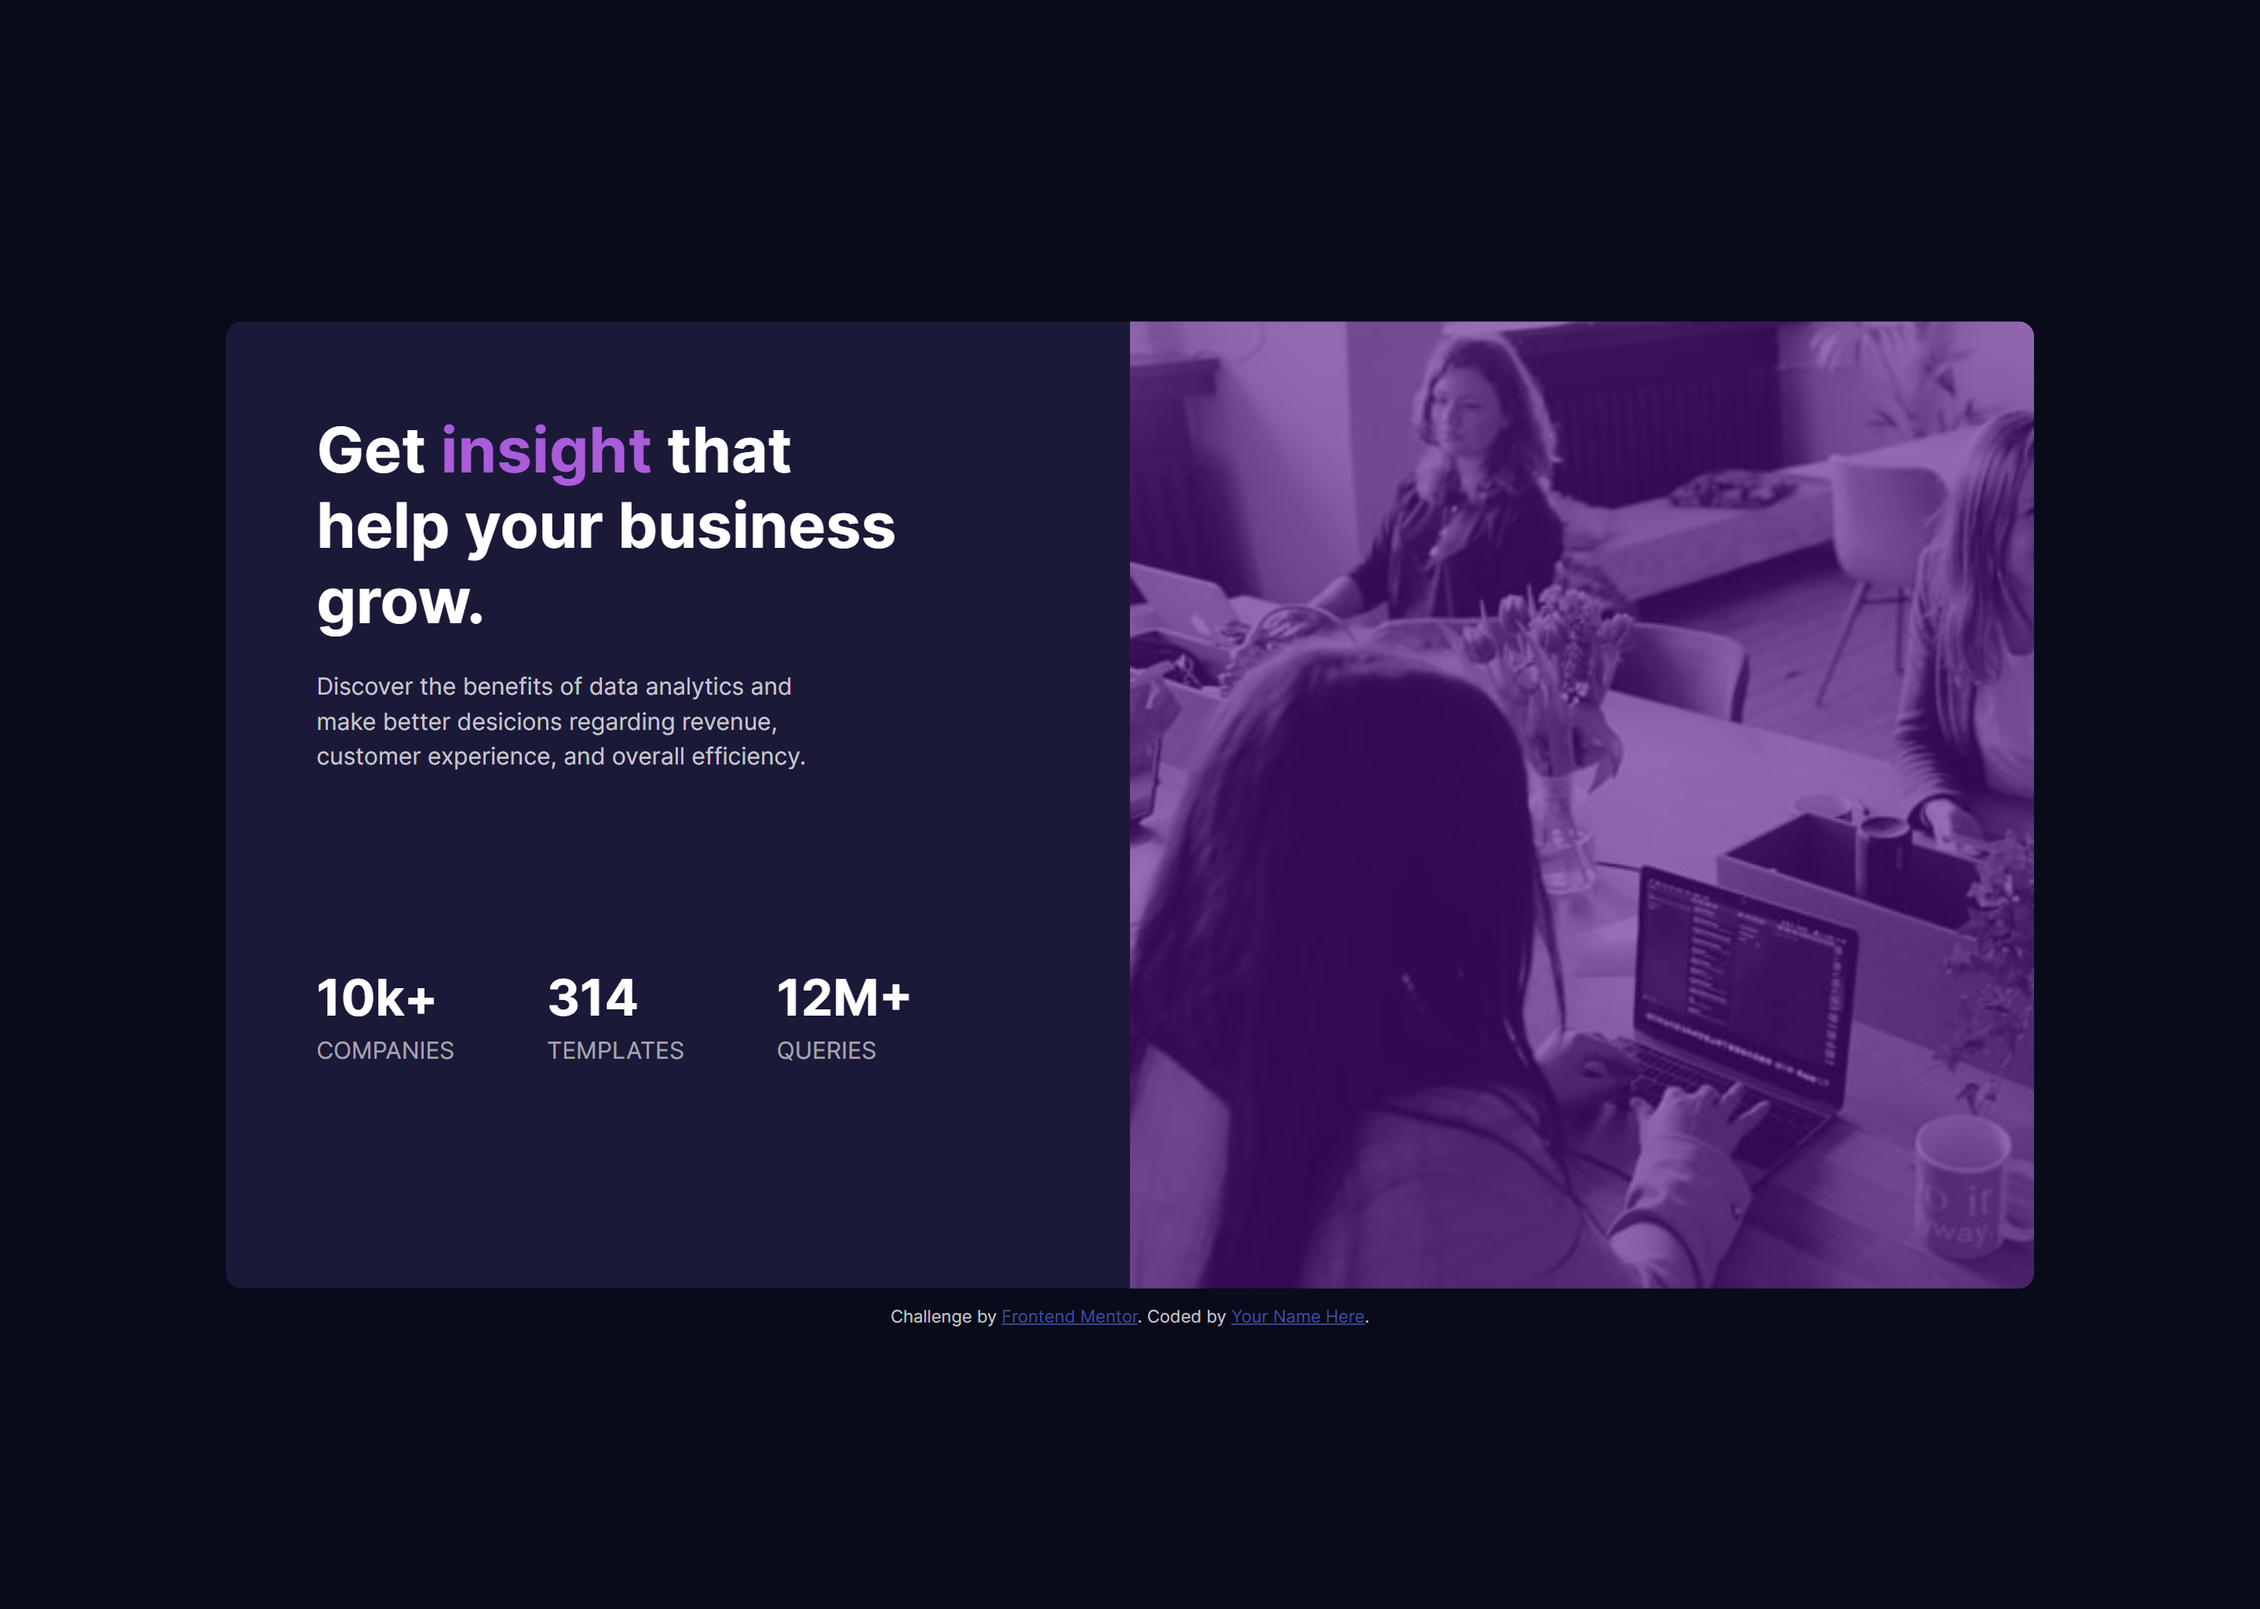
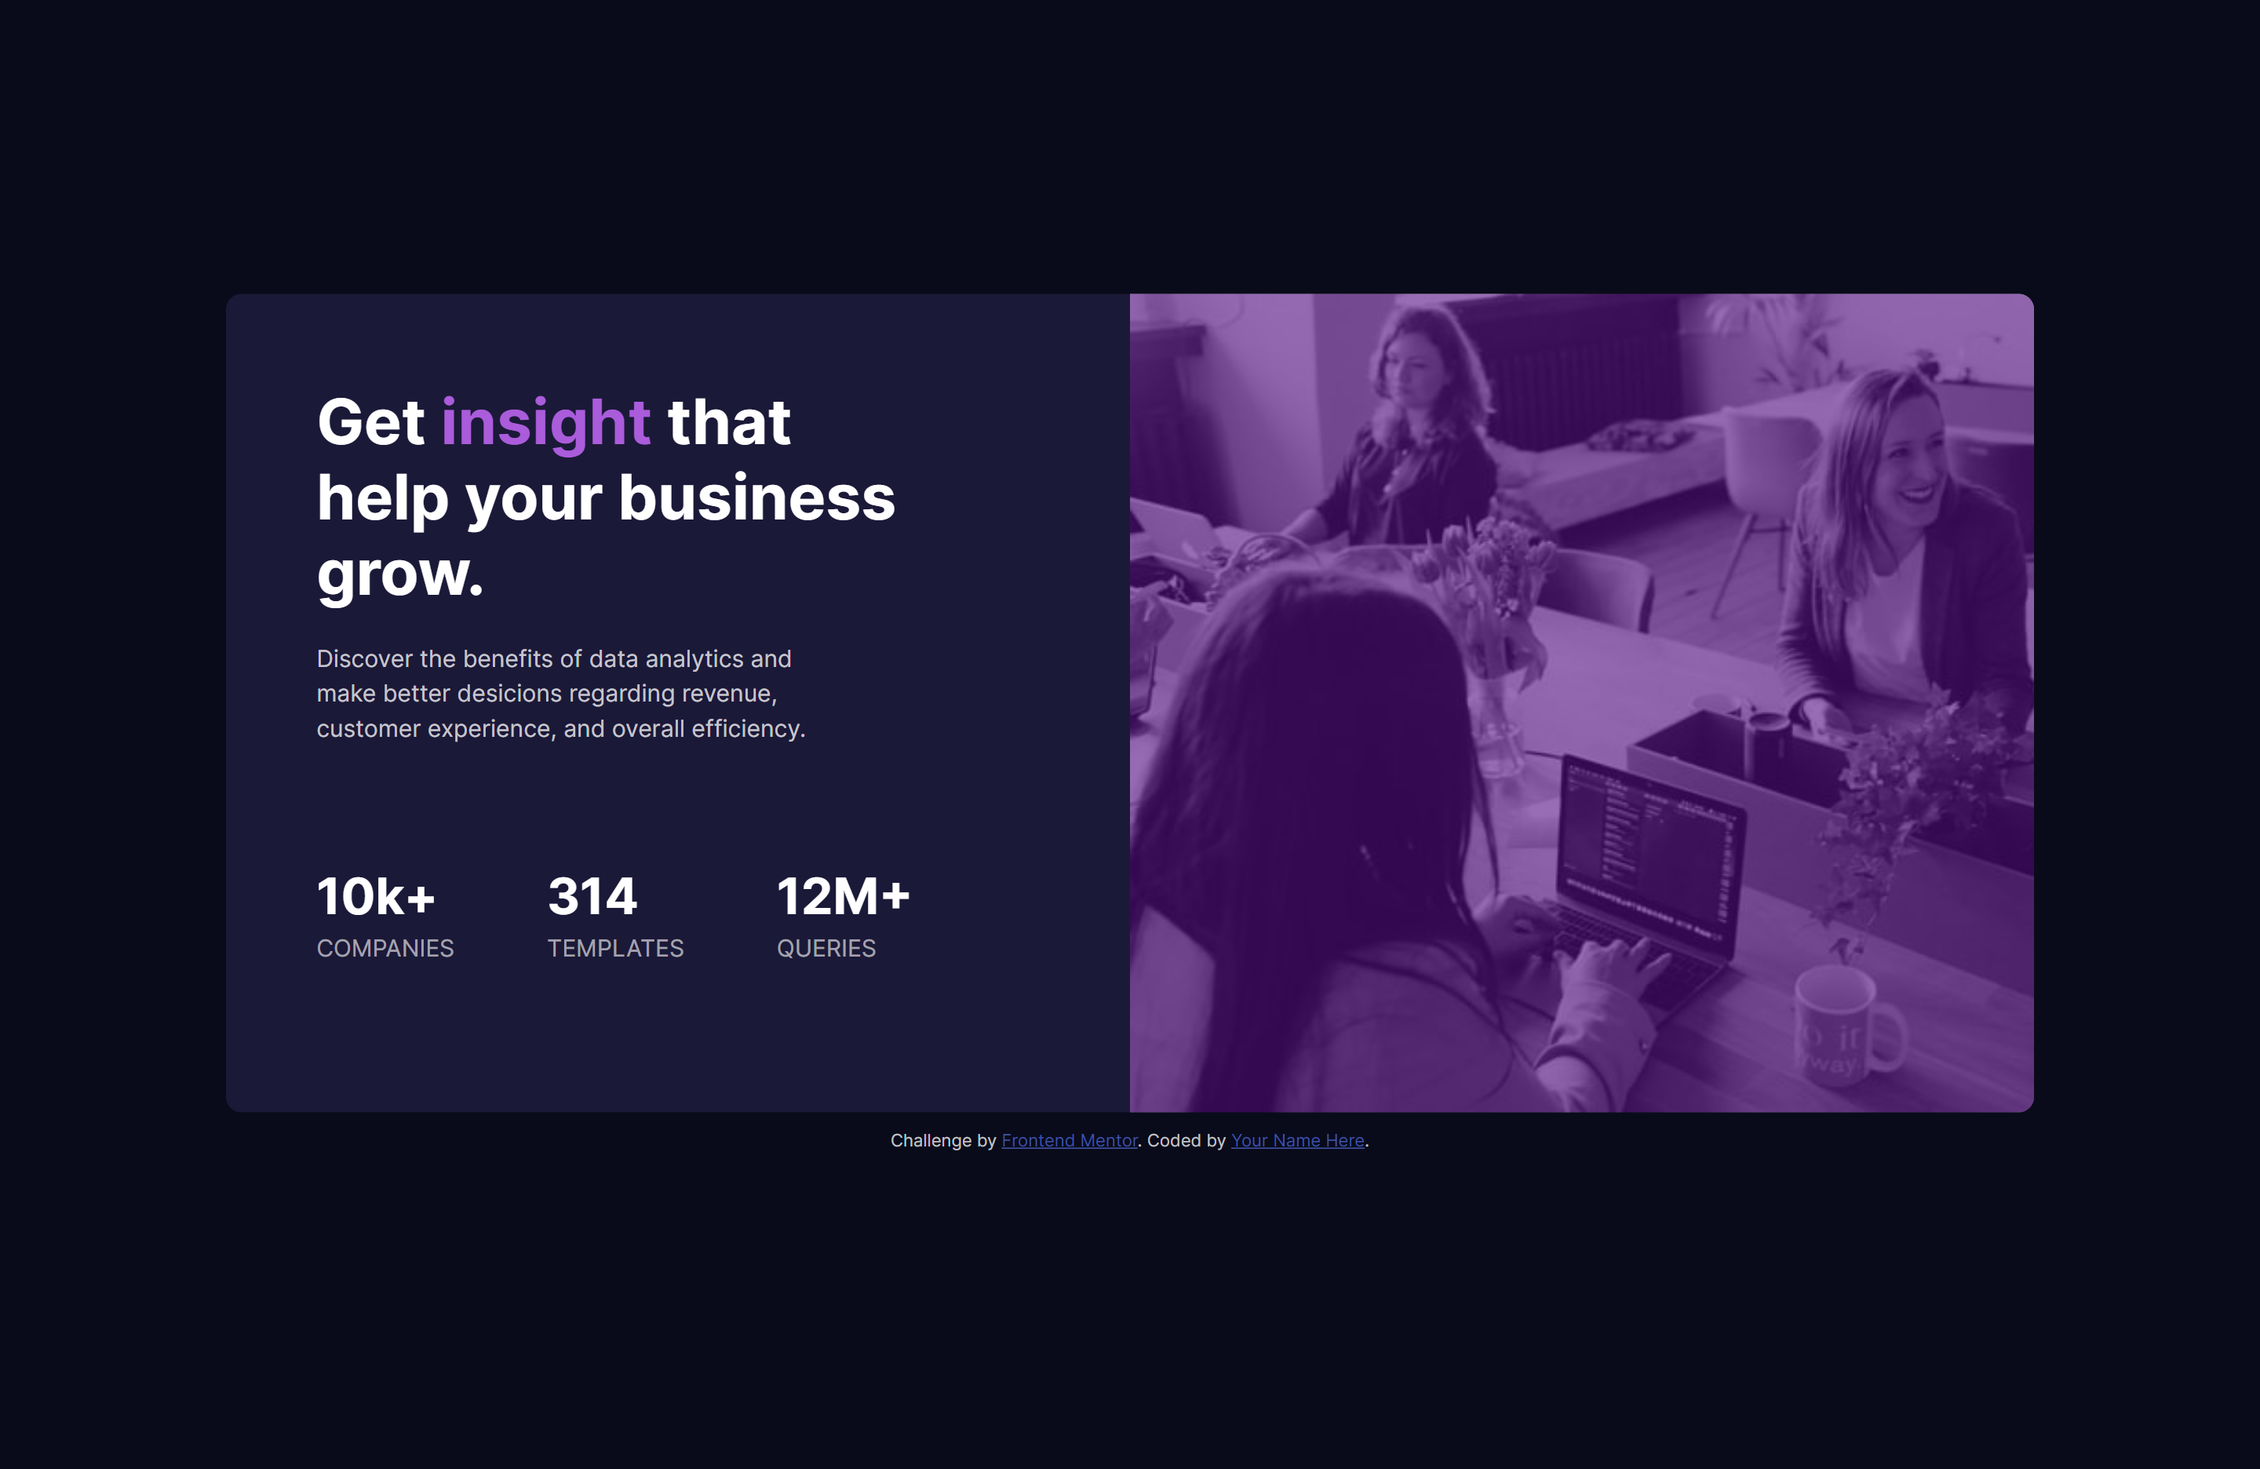
Change the container size

diff --git a/style.css b/style.css
@@ -18,7 +18,7 @@ body {
 /* position */
 .container {
     width: 80vw;
-    min-height: 60vh;
+    min-height: 50vh;
     padding: 0;
     margin: 20vh auto;
     margin-bottom: 10px;
